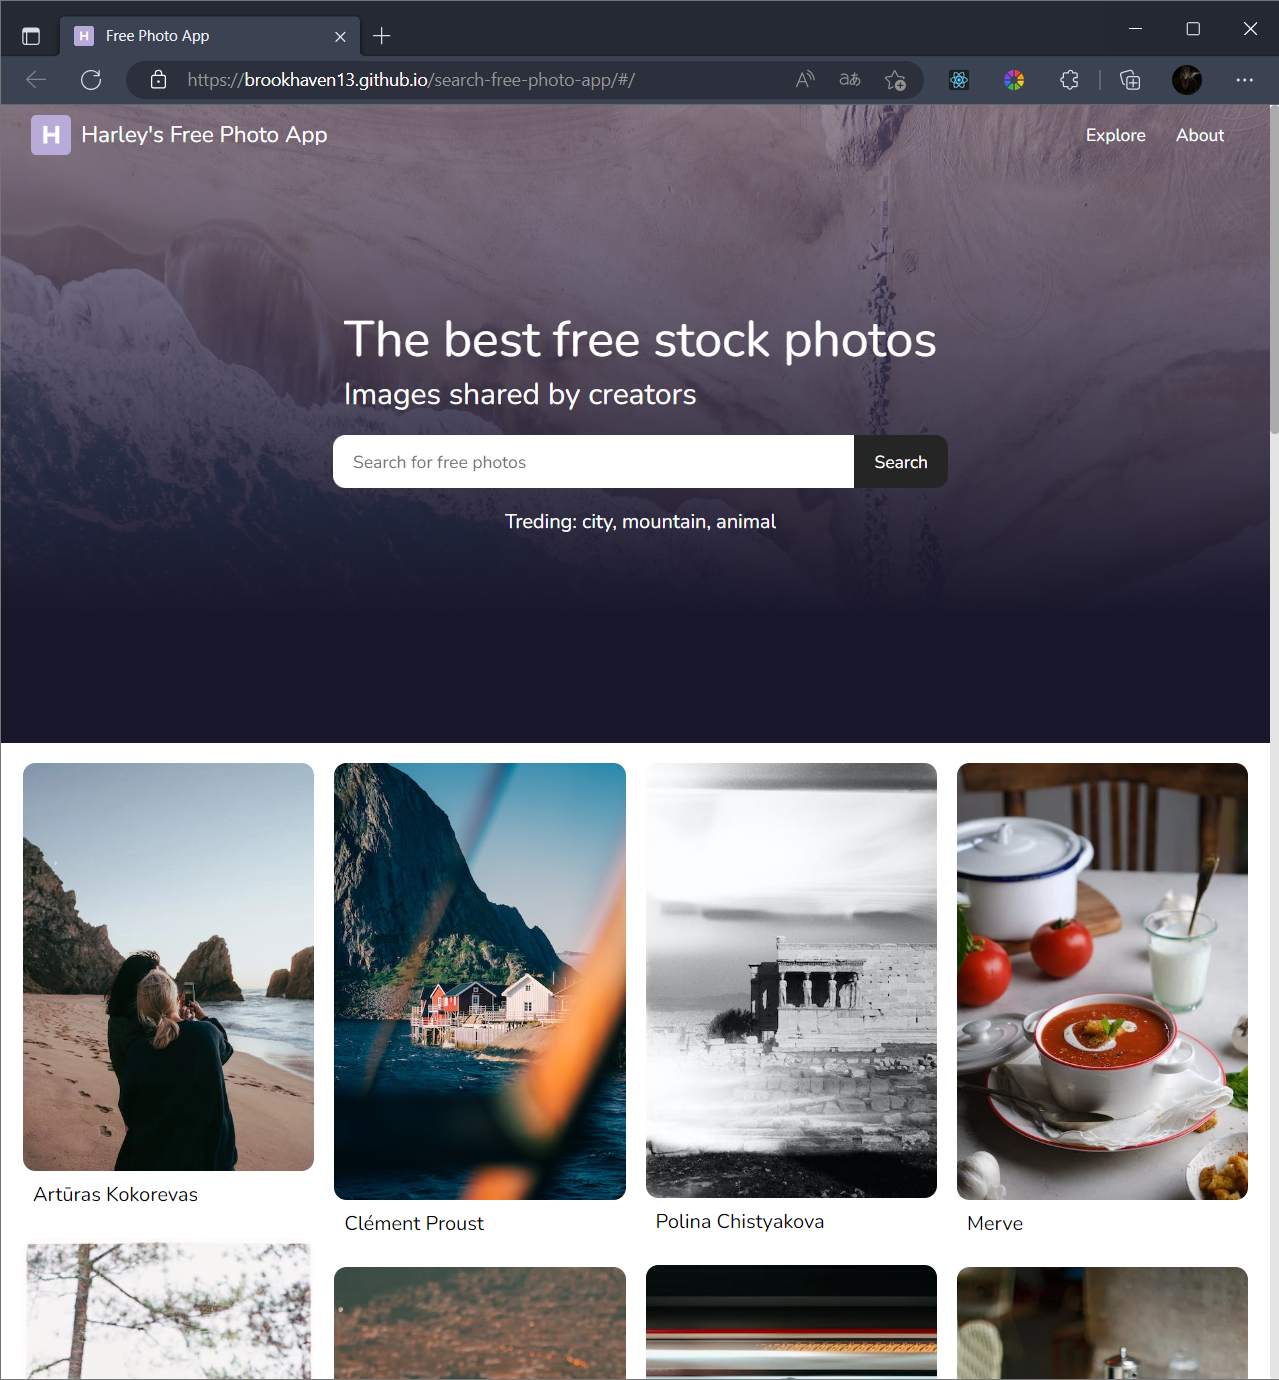
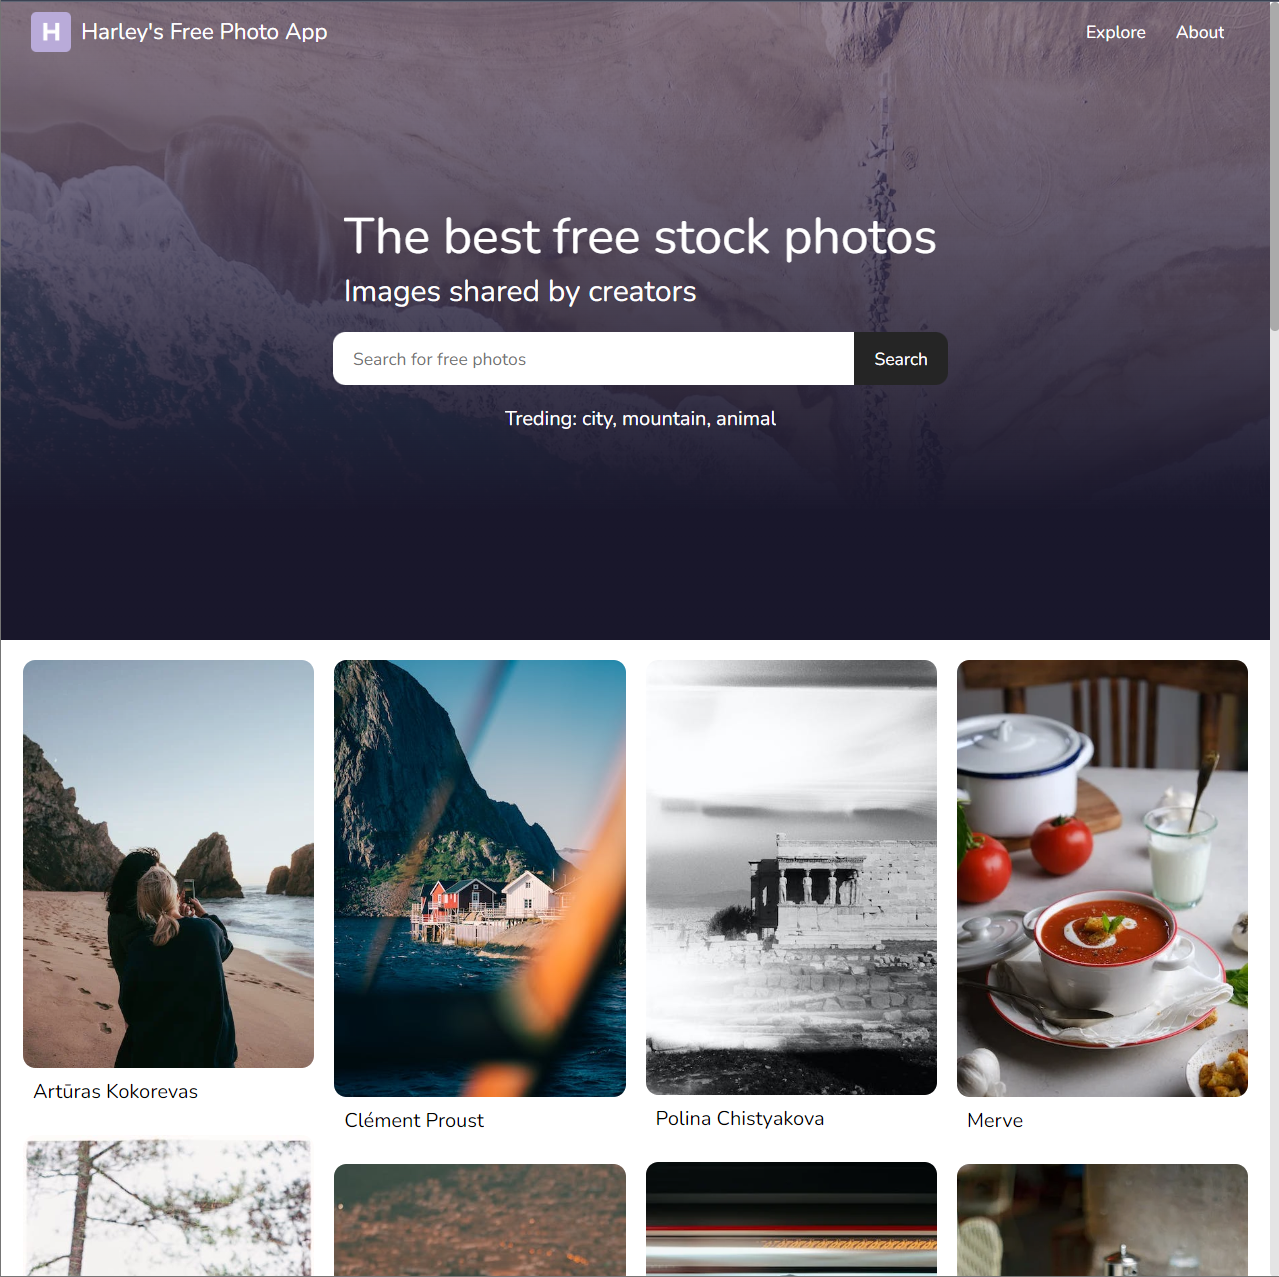
finished project page responsive styles setting

diff --git a/components/Projects.tsx b/components/Projects.tsx
@@ -7,7 +7,6 @@ import projectData from "./../data/projects.json";
 
 import PreviewIcon from "@mui/icons-material/Preview";
 import GitHubIcon from "@mui/icons-material/GitHub";
-import Link from "@mui/material/Link";
 
 type Props = {};
 
@@ -46,54 +45,60 @@ const Projects = (props: Props) => {
           duration: 2,
         }}
       >
-        <div className="w-full flex flex-row overflow-x-scroll snap-x snap-mandatory md:p-6 scrollbar- scrollbar-thin scrollbar-track-[#E5E9F0]/25 scrollbar-thumb-[#88C0D0] scrollbar-thumb-rounded">
-          <Masonry columns={3} spacing={2}>
+        <div className="w-full flex flex-row overflow-x-scroll snap-x snap-mandatory md:p-4 scrollbar- scrollbar-thin scrollbar-track-[#E5E9F0]/25 scrollbar-thumb-[#88C0D0] scrollbar-thumb-rounded">
+          <Masonry
+            className="xs: px-2"
+            columns={{ xs: 2, sm: 3, md: 3 }}
+            spacing={{ xs: 1, sm: 2, md: 4 }}
+          >
             {projectData.map((element, index) => {
               return (
-                <div key={index}>
+                <div key={index} className="flex flex-col justify-center gap-1">
+                  <div className="cursor-pointer flex flex-col flex-wrap gap-2 justify-evenly items-center text-sm text-white text-medium">
+                    {element.name}
+                  </div>
                   <div className="relative overflow-hidden bg-no-repeat bg-cover w-full">
                     <img
-                      className="rounded hover:scale-110 transition duration-300"
+                      className="rounded-lg hover:scale-110 transition duration-300"
                       src={element.image}
                     />
-                    <div className="absolute top-0 right-0 bottom-0 left-0 w-full h-full overflow-hidden bg-fixed opacity-0 hover:opacity-90 transition duration-300 ease-in-out bg-slate-800">
-                      <div className="w-full h-full flex flex-col flex-wrap gap-3 p-4 justify-evenly items-center text-white text-sm md:text-xs">
-                        <div className="font-medium text-white text-lg md:text-base">
-                          {element.name}
-                        </div>
-                        <div className="font-normal">{element.description}</div>
-                        <div className="flex flex-rol flex-wrap gap-3">
+                    <div className="absolute rounded top-0 right-0 bottom-0 left-0 w-full h-full overflow-hidden bg-fixed opacity-0 text-white text-xs hover:opacity-90 transition duration-300 ease-in-out bg-slate-800">
+                      <div className="w-full h-full flex flex-wrap flex-col justify-evenly items-center gap-2 p-4">
+                        <div className="font-thin">{element.description}</div>
+                        <div className="flex flex-rol flex-wrap gap-3 text-xs text-white">
                           {element.skills?.map((skill, index) => {
                             return (
                               <span
                                 className="flex flex-rol gap-1 items-center pr-1"
                                 key={index}
                               >
-                                <i className={`${skill.icon} text-base`}></i>
+                                <i
+                                  className={`${skill.icon} text-base md:text-sm`}
+                                ></i>
                                 {skill.name}
                               </span>
                             );
                           })}
                         </div>
-                        <div className="flex items-center gap-2 text-sm">
-                          Links:
-                          {element.github ? (
-                            <GitHubIcon
-                              className="cursor-pointer w-5"
-                              onClick={() => {
-                                window.open(element.demo, "_blank");
-                              }}
-                            />
-                          ) : null}
-                          <PreviewIcon
-                            className="cursor-pointer"
-                            onClick={() => {
-                              window.open(element.demo, "_blank");
-                            }}
-                          />
-                        </div>
                       </div>
                     </div>
+                  </div>
+                  <div className="flex justify-center items-center gap-2 text-xs">
+                    Links:
+                    {element.github ? (
+                      <GitHubIcon
+                        className="cursor-pointer w-5"
+                        onClick={() => {
+                          window.open(element.demo, "_blank");
+                        }}
+                      />
+                    ) : null}
+                    <PreviewIcon
+                      className="cursor-pointer"
+                      onClick={() => {
+                        window.open(element.demo, "_blank");
+                      }}
+                    />
                   </div>
                 </div>
               );

diff --git a/pages/index.tsx b/pages/index.tsx
@@ -1,6 +1,7 @@
 import type { NextPage } from "next";
 import Head from "next/head";
 import About from "../components/About";
+import Contact from "../components/Contact";
 import Experience from "../components/Experience";
 import Header from "../components/Header";
 import Hero from "../components/Hero";
@@ -39,6 +40,9 @@ const Home: NextPage = () => {
       </section>
 
       {/* Contact Me */}
+      <section id="contact" className="snap-center">
+        <Contact />
+      </section>
     </div>
   );
 };

diff --git a/components/Contact.tsx b/components/Contact.tsx
@@ -1,0 +1,13 @@
+import React, { PureComponent } from "react";
+
+export class Contact extends PureComponent {
+  render() {
+    return (
+      <div className="flex flex-col h-screen text-center md:text-left  max-w-7xl justify-evenly items-center mx-auto">
+        Contact
+      </div>
+    );
+  }
+}
+
+export default Contact;
